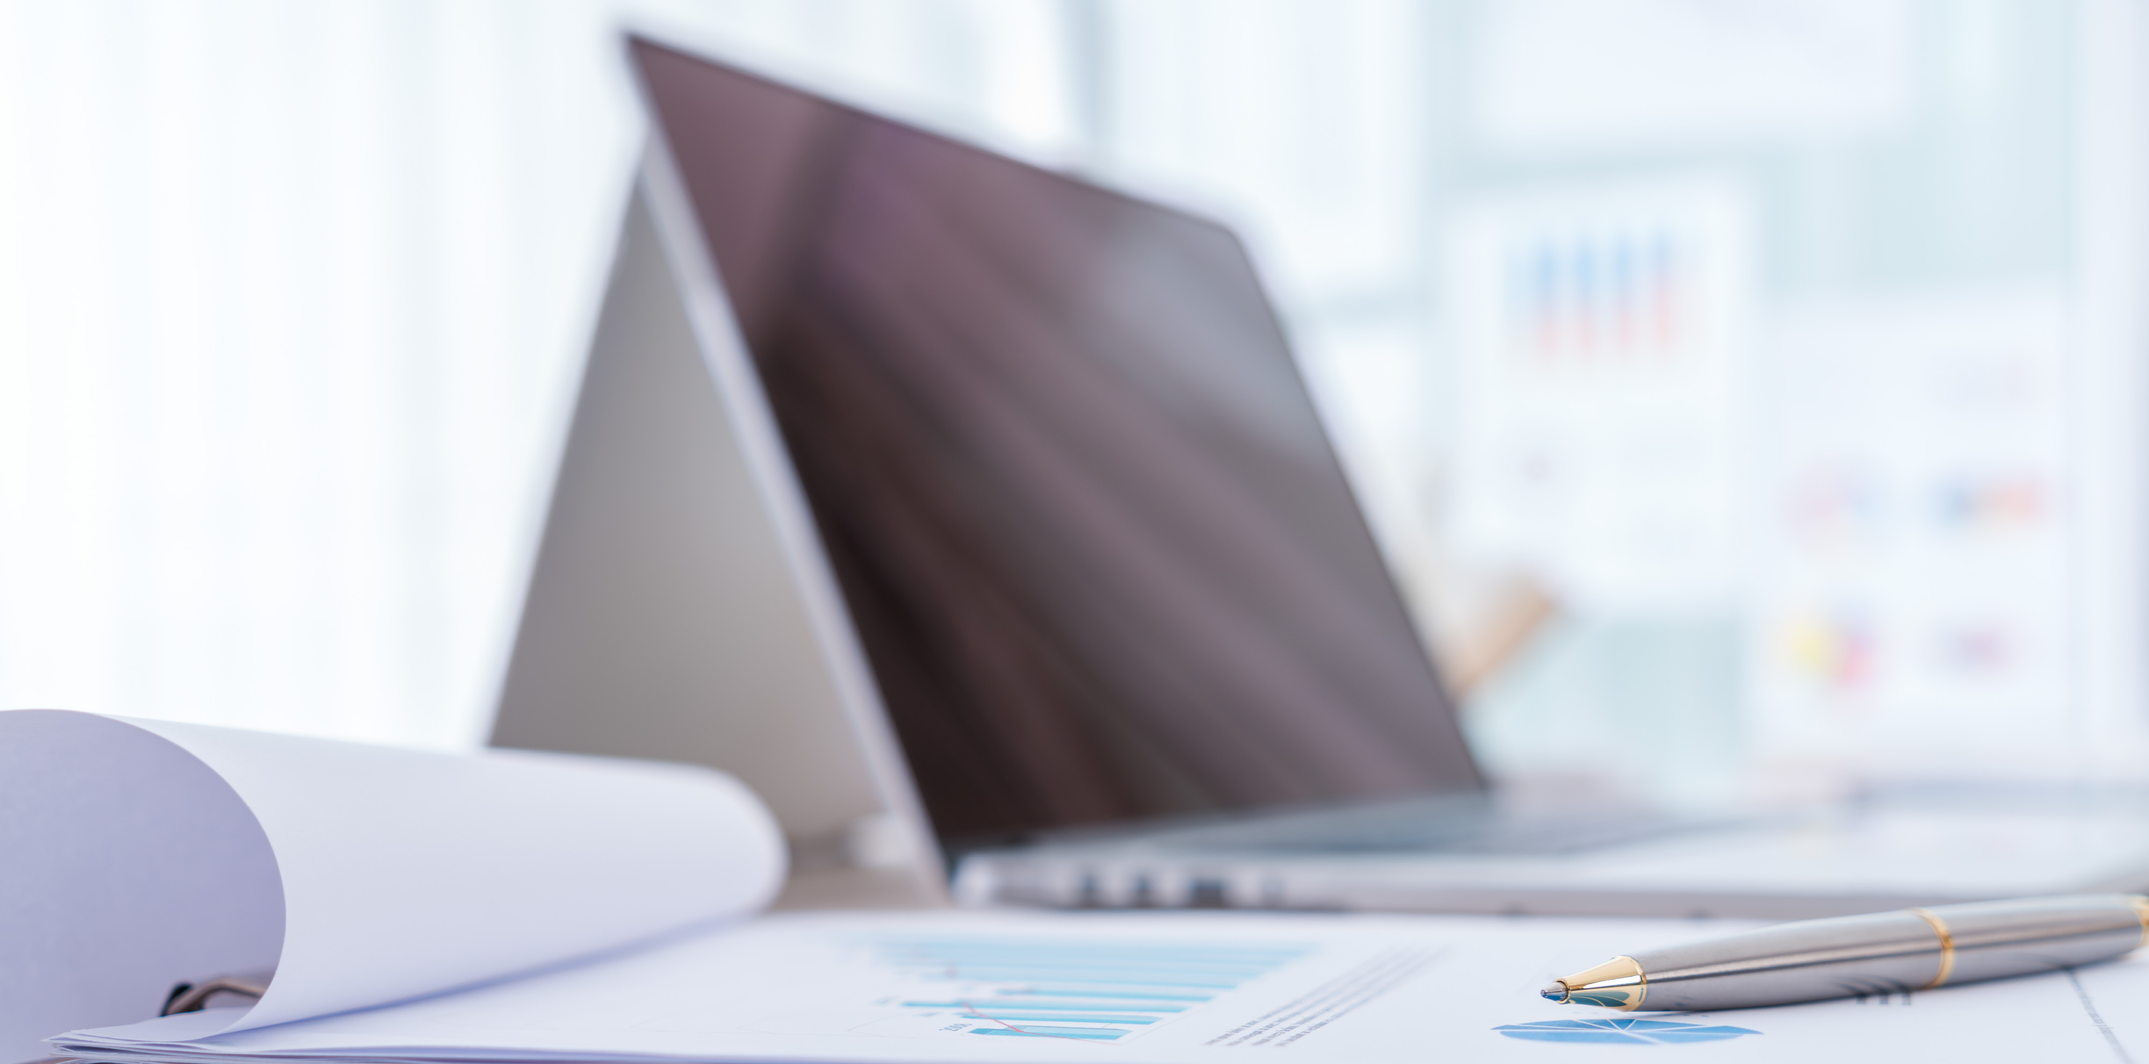
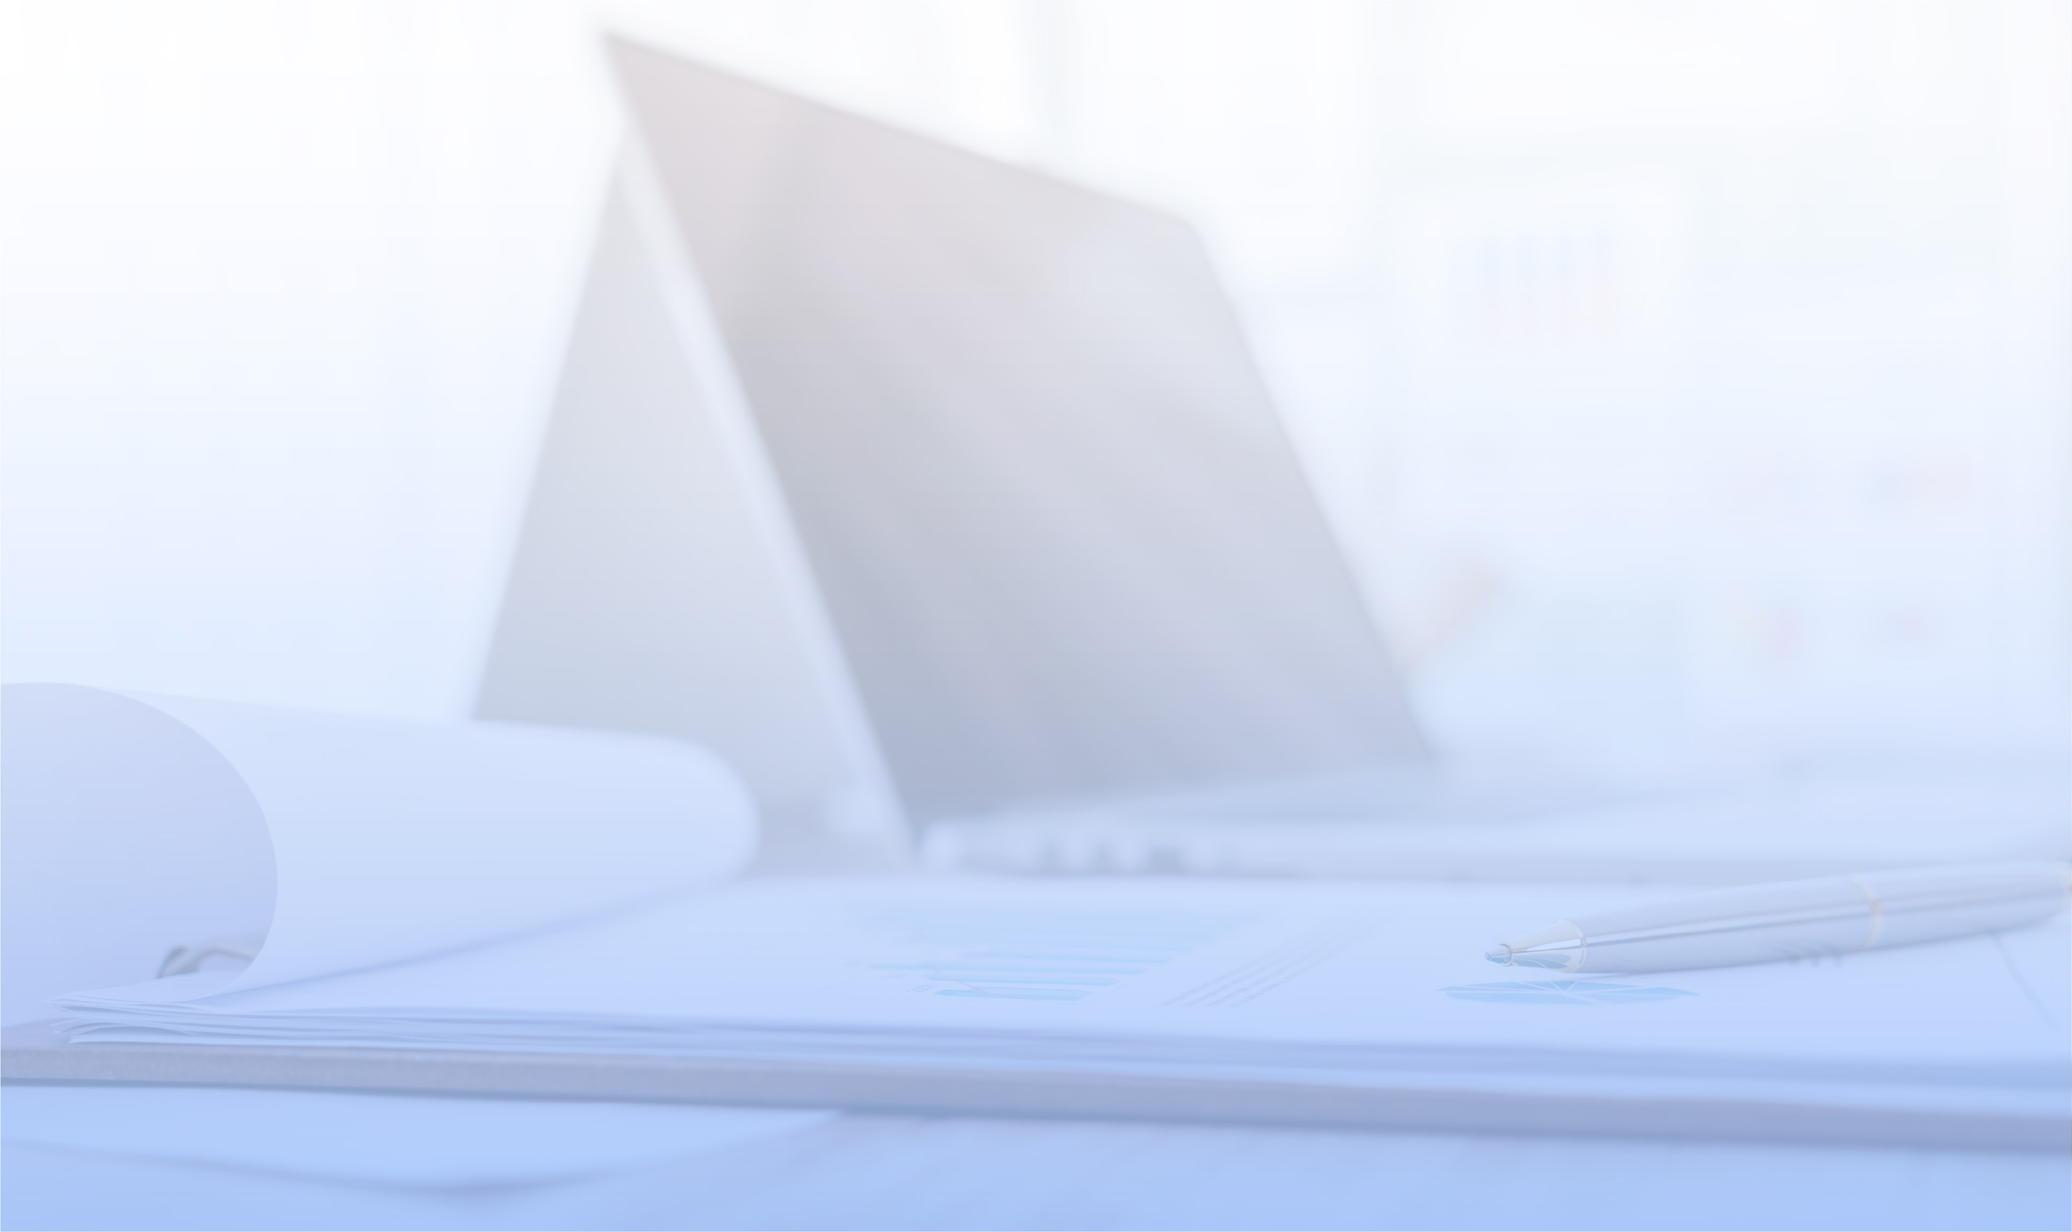
add team page

diff --git a/public/doob_template_assets/js/main.js b/public/doob_template_assets/js/main.js
@@ -146,7 +146,7 @@
                 slidesToShow: 1,
                 slidesToScroll: 1,
                 dots: true,
-                arrows: false,
+                arrows: true,
                 adaptiveHeight: true,
                 cssEase: 'linear',
                 prevArrow: '<button class="slide-arrow prev-arrow"><i class="feather-arrow-left"></i></button>',
@@ -160,7 +160,7 @@
                 slidesToShow: 3,
                 slidesToScroll: 1,
                 dots: true,
-                arrows: false,
+                arrows: true,
                 infinite: true,
                 adaptiveHeight: true,
                 cssEase: 'linear',

diff --git a/resources/views/member.blade.php b/resources/views/member.blade.php
@@ -2,230 +2,40 @@
 
 @section('content')
     <div class="main-content pt--125">
-
-
-        @if( preg_match('(search)', url()->current()) != 1 )
-            <div class="rn-magazine-area ptb--40">
-                <div class="wrapper plr--10">
-                    <div class="row row--5">
-                        <h4 class="title"> <i class="fa-solid fa-thumbtack" style="color:#0d3050"></i> Pinned Articles </h4>
-                        <div class="col-lg-12 col-xl-6 mt-3">
-                                @if ( isset($pinned_articles[0]) )
-                                    <div class="rn-card box-card-style-default content-transparent post-large h-100">
-                                        <div class="inner">
-                                            <div class="thumbnail">
-                                                <a class="image" href="{{ route('article', $pinned_articles[0]->slug) }}">
-                                                    <img class="w-100" src="{{ asset("images/articles/".$pinned_articles[0]->img) }}" alt="Blog Image">
-                                                </a>
-                                            </div>
-                                            <div class="content">
-                                                <h4 class="title"><a href="{{ route('article', $pinned_articles[0]->slug) }}">{{ $pinned_articles[0]->title }}</a></h4>
-                                                <ul class="rn-meta-list">
-                                                    <li><a href="#">{{ $pinned_articles[0]->author }}</a></li>
-                                                    <li class="separator">/</li>
-                                                    <li>{{date( 'm-d-Y', strtotime( $pinned_articles[0]->created_at) )}}</li>
-                                                </ul>
-                                            </div>
-                                        </div>
+        <div class="container">
+            <div class="row">
+                <div class="col-lg-12">
+                    <div class="section-title text-center sal-animate" data-sal="slide-up" data-sal-duration="400"
+                        data-sal-delay="150">
+                        <h4 class="subtitle "><span class="theme-gradient">Our Experts. </span></h4>
+                    </div>
+                </div>
+                <div class="col-lg-8 offset-lg-2">
+                    <div class="content text-center">
+                        <div class="page-title">
+                            <h1 class="theme-gradient"> Our Experts Team </h1>
+                        </div>
+                    </div>
+                </div>
+                @foreach ($members as $member)
+                    <div class="col-xl-4 col-lg-6  col-md-6  pt-4 pb-4">
+                        <div class="mt--30 sal-animate me-3 ms-3" data-sal="slide-up" data-sal-duration="700"
+                            data-sal-delay="200">
+                            <div class="rn-team team-style-default">
+                                <div class="inner">
+                                    <div class="thumbnail">
+                                        <img src="{{ asset('images/members/' . $member->img) }}" alt="member-image">
                                     </div>
-                                @endif
-                            </div>
-                        <div class="col-lg-12 col-xl-6 mt-3">
-                            <div class="row row--5">
-                                <div class="col-lg-6 middle-post">
-                                    @if ( isset($pinned_articles[1]) )
-                                        <div class="rn-card box-card-style-default content-transparent h-100">
-                                            <div class="inner h-100">
-                                                <div class="thumbnail h-100">
-                                                    <a class="image h-100 w-100" href="{{ route('article', $pinned_articles[1]->slug) }}"  style="background-image: url('{{asset("images/articles/".$pinned_articles[1]->img)}}')">
-                                                        {{-- <img class="w-100" src="{{ asset("images/articles/".$pinned_articles[1]->img) }}" alt="Blog Image"> --}}
-                                                    </a>
-                                                </div>
-                                                <div class="content">
-                                                    <h4 class="title"><a href="{{ route('article', $pinned_articles[1]->slug) }}">{{ $pinned_articles[1]->title }}</a></h4>
-                                                    <ul class="rn-meta-list">
-                                                        <li><a href="#">{{ $pinned_articles[1]->author }}</a></li>
-                                                        <li class="separator">/</li>
-                                                        <li>{{date( 'm-d-Y', strtotime( $pinned_articles[1]->created_at) )}}</li>
-                                                    </ul>
-                                                </div>
-                                            </div>
-                                        </div>
-                                    @endif
-                                </div>
-                                <div class="col-lg-6">
-                                    <!-- Start Single Post  -->
-                                    <div class="rn-card box-card-style-default content-transparent ">
-                                        @if ( isset($pinned_articles[2]) )
-                                            <div class="inner">
-                                                <div class="thumbnail">
-                                                    <a class="image" href="{{ route('article', $pinned_articles[2]->slug) }}">
-                                                        <img class="w-100" src="{{ asset("images/articles/".$pinned_articles[2]->img) }}" alt="Blog Image">
-                                                    </a>
-                                                </div>
-                                                <div class="content">
-                                                    <h4 class="title"><a href="{{ route('article', $pinned_articles[2]->slug) }}">{{ $pinned_articles[2]->title }}</a></h4>
-                                                    <ul class="rn-meta-list">
-                                                        <li><a href="#">{{ $pinned_articles[2]->author }}</a></li>
-                                                        <li class="separator">/</li>
-                                                        <li>{{date( 'm-d-Y', strtotime( $pinned_articles[2]->created_at) )}}</li>
-                                                    </ul>
-                                                </div>
-                                            </div>
-                                        @endif
+                                    <div class="content">
+                                        <h2 class="title">{{ $member->name }}</h2>
+                                        <h6 class="subtitle theme-gradient">{{ $member->job_title }}</h6>
                                     </div>
-                                    <!-- End Single Post  -->
-                                    <!-- Start Single Post  -->
-                                    <div class="rn-card box-card-style-default content-transparent mt--10">
-                                        @if ( isset($pinned_articles[3]) )
-                                            <div class="inner">
-                                                <div class="thumbnail">
-                                                    <a class="image" href="{{ route('article', $pinned_articles[3]->slug) }}">
-                                                        <img class="w-100" src="{{ asset("images/articles/".$pinned_articles[3]->img) }}" alt="Blog Image">
-                                                    </a>
-                                                </div>
-                                                <div class="content">
-                                                    <h4 class="title"><a href="{{ route('article', $pinned_articles[3]->slug) }}">{{ $pinned_articles[3]->title }}</a></h4>
-                                                    <ul class="rn-meta-list">
-                                                        <li><a href="#">{{ $pinned_articles[3]->author }}</a></li>
-                                                        <li class="separator">/</li>
-                                                        <li>{{date( 'm-d-Y', strtotime( $pinned_articles[3]->created_at) )}}</li>
-                                                    </ul>
-                                                </div>
-                                            </div>
-                                        @endif
-                                    </div>
-                                    <!-- End Single Post  -->
                                 </div>
                             </div>
                         </div>
                     </div>
-                </div>
-            </div>
-        @endif
-
-
-
-
-
-        <!-- Start blog area  -->
-        <div class="rn-blog-area rn-section-gap">
-            <div class="container">
-                <div class="row row--30">
-                    <div class="col-lg-8">
-                        <div class="row">
-                            <div class="col-lg-12">
-                                <div class="row row--15">
-
-                                    <!----------------- If No Articles ------------------>
-                                    @if ($articles->isEmpty())
-
-                                        @if( preg_match('(search)', url()->current()) == 1 )  <!---- in search Page ---->
-                                            <h4 class="title"> <i class="fa-solid fa-magnifying-glass" style="color:#0d3050"></i> 0 Search results  "{{ Request::input('search') }}" </h4>
-                                        @else
-                                            <h4> <i class="fa-solid fa-magnifying-glass" style="color:#0d3050"></i> No Articles! </h4>
-                                        @endif
-
-                                    <!----------------- If Exist Articles ------------------>
-                                    @else
-
-                                        @if( preg_match('(search)', url()->current()) == 1 )  <!---- in search Page ---->
-                                            <h4 class="title"> <i class="fa-solid fa-magnifying-glass" style="color:#0d3050"></i>  {{ $articles->count() }} Search results  "{{ Request::input('search') }}" </h4>
-                                        @else
-                                            <h4 class="title"> <i class="fa-solid fa-clock" style="color:#0d3050"></i> Latest Articles </h4>
-                                        @endif
-
-                                        <!---------- Articles ---------->
-                                        @foreach ($articles as $article)
-                                            <div class="col-lg-6 col-md-6 col-12 mt--30">
-                                                <div class="rn-card undefined">
-                                                    <div class="inner">
-                                                        <div class="thumbnail"><a class="image"
-                                                                href="{{ route('article', $article->slug) }}"><img
-                                                                    src="{{ asset('images/articles/'.$article->img) }}"
-                                                                    alt="Blog Image"></a>
-                                                        </div>
-                                                        <div class="content">
-                                                            <ul class="rn-meta-list">
-                                                                <li><a href="#">{{ $article->author }}</a></li>
-                                                                <li class="separator">/</li>
-                                                                <li>{{date( 'm-d-Y', strtotime( $article->created_at) )}}</li>
-                                                            </ul>
-                                                            <h4 class="title"><a href="{{ route('article', $article->slug) }}">
-                                                                {{$article->title }}
-                                                                </a></h4>
-                                                        </div>
-                                                    </div>
-                                                </div>
-                                            </div>
-                                        @endforeach
-
-                                    @endif
-
-                                </div>
-                            </div>
-                            {{-- Pagination --}}
-                            <div class="d-flex justify-content-center mt-5 pagination-container">
-                                {{ $articles->links('pagination::bootstrap-4') }}
-                            </div>
-                        </div>
-                    </div>
-                    <div class="col-lg-4 mt_md--40 mt_sm--40">
-                        <aside class="rwt-sidebar">
-                            <div class="rbt-single-widget widget_search mt--40">
-                                <div class="inner">
-                                    <form class="blog-search" action="{{ route('blog.search') }}" method="POST">
-                                        @csrf
-                                        <input type="text" name="search" value='{{ Request::input('search') }}'  placeholder="Search ..." autocomplete="off" maxlength="55" required/>
-                                        <button class="search-button" type="submit">
-                                            <i class="feather-search"></i>
-                                        </button>
-                                    </form>
-                                    @error('search')
-                                        <div class="invalid-feedback d-block">{{ $message }}.</div>
-                                    @enderror
-                                </div>
-                            </div>
-                            <div class="rbt-single-widget widget_categories mt--40">
-                                <h3 class="title">Categories</h3>
-                                <div class="inner">
-                                    <ul class="category-list ">
-                                        @foreach ($categories as $category)
-                                            <li><a href="#"><span
-                                                        class="left-content">{{ $category->title }}</span><span
-                                                        class="count-text">{{ $category->articles->count() }}</span></a>
-                                            </li>
-                                        @endforeach
-                                    </ul>
-                                </div>
-                            </div>
-                            <div class="rbt-single-widget widget_recent_entries mt--40">
-                                <h3 class="title">Post</h3>
-                                <div class="inner">
-                                    <ul>
-                                        @foreach ($lasted_articles as $lasted_article)
-                                            <li><a class="d-block" href="{{ route('article', $lasted_article->slug ) }}">
-                                                    {{ $lasted_article->title }}
-                                                </a><span class="cate"> {{ $lasted_article->category->title }} </span>
-                                            </li>
-                                        @endforeach
-                                    </ul>
-                                </div>
-                            </div>
-                        </aside>
-                    </div>
-                </div>
+                @endforeach
             </div>
         </div>
-        <!-- End blog area  -->
-
-
-
-
-
-
-
-
-
     </div>
 @endsection

diff --git a/app/Http/Controllers/MemberController.php b/app/Http/Controllers/MemberController.php
@@ -20,18 +20,18 @@ class MemberController extends Controller
     */
     public function index()
     {
-        // $members   = Member::get();
+        $members   = Member::get();
 
-        // // SEO Trait
-        // $this->staticPagesSeo(
-        //     'Blog',
-        //     'For many years PRECISION ACCOUNTING has been helping individuals, families and small businesses in the community prepare their taxes',
-        //     'Digital switching over, How tax planning matters,Payroll management,Qbooks,How COVID-19 affected the IRS,CPA from A to Z part two,CPA from A to Z'
-        // );
+        // SEO Trait
+        $this->staticPagesSeo(
+            'Precision Accounting Team',
+            'For many years PRECISION ACCOUNTING has been helping individuals, families and small businesses in the community prepare their taxes',
+            'Digital switching over, How tax planning matters,Payroll management,Qbooks,How COVID-19 affected the IRS,CPA from A to Z part two,CPA from A to Z'
+        );
 
 
-        // return view('member',compact('members'));
-        return "team";
+        return view('member',compact('members'));
+
     }
 
 

diff --git a/resources/views/home.blade.php b/resources/views/home.blade.php
@@ -174,6 +174,13 @@
                         </div>
                     @endforeach
                 </div>
+                <div class="col-lg-12 text-center">
+                    <div class="rwt-load-more text-center">
+                        <a class="btn-default mt--30" href="{{ route("team") }}">View Full Team
+                            <i class="feather-loader"></i>
+                        </a>
+                    </div>
+                </div>
             </div>
         </div>
     </div>

diff --git a/resources/views/about.blade.php b/resources/views/about.blade.php
@@ -4,7 +4,7 @@
 
 
     <!-- Start Slider Area  -->
-    <div class="slider-area slider-style-1 height-850">
+    <div class="slider-area bg_image bg_image--12 slider-style-1 height-100vh">
         <div class="container">
             <div class="row">
                 <div class="col-lg-12">
